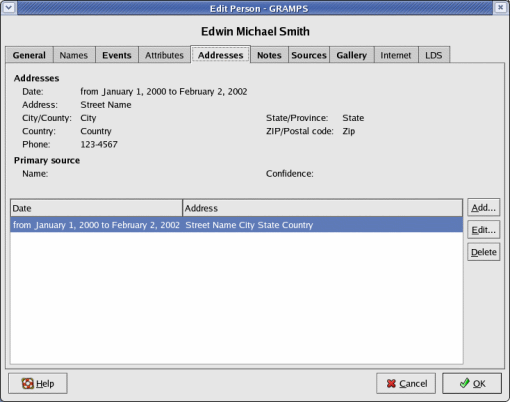
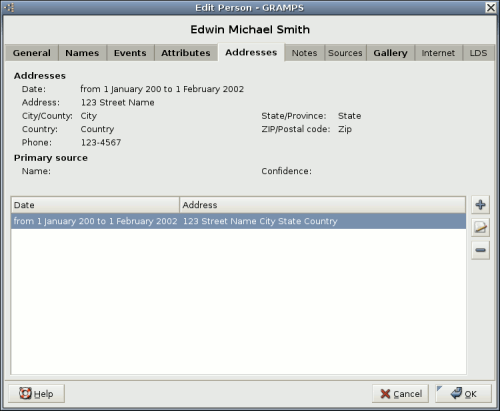
* src/EditPerson.py (on_help_clicked): Call appropriate manual section. * doc/gramps-manual/C/usage.xml: Update. * doc/gramps-manual/C/figures/edit-person-*.png: Update. * configure.in: Bump up version, to distinguish from released 1.1.99.
svn: r4454

Changed region(s): [[0.0, 0.0, 1.0, 1.0], [0.51, 0.2687, 0.72, 0.3582], [0.51, 0.3881, 0.63, 0.4478]]

diff --git a/gramps2/src/EditPerson.py b/gramps2/src/EditPerson.py
@@ -640,7 +640,7 @@ class EditPerson:
 
     def on_help_clicked(self,obj):
         """Display the relevant portion of GRAMPS manual"""
-        gnome.help_display('gramps-manual','gramps-edit-complete')
+        gnome.help_display('gramps-manual','adv-pers')
 
     def build_columns(self,tree,list):
         cnum = 0
